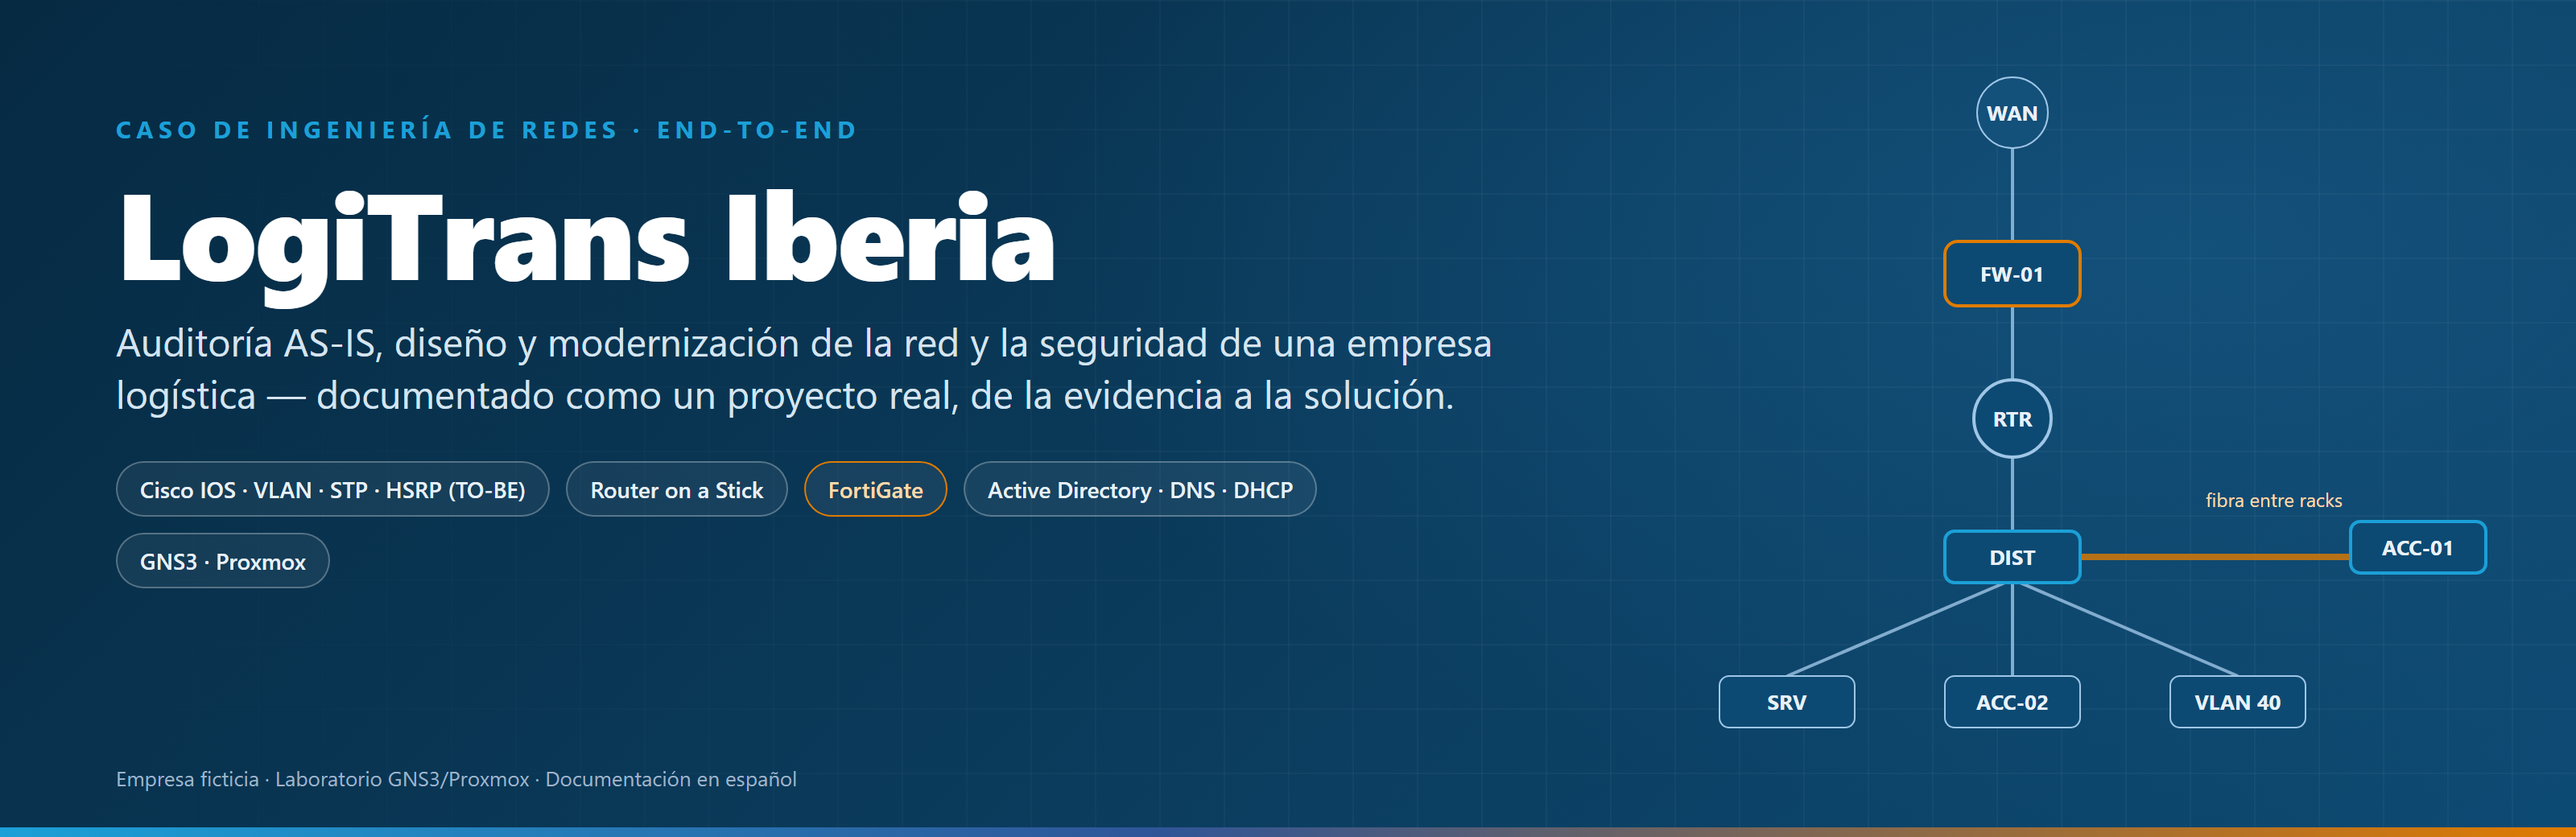
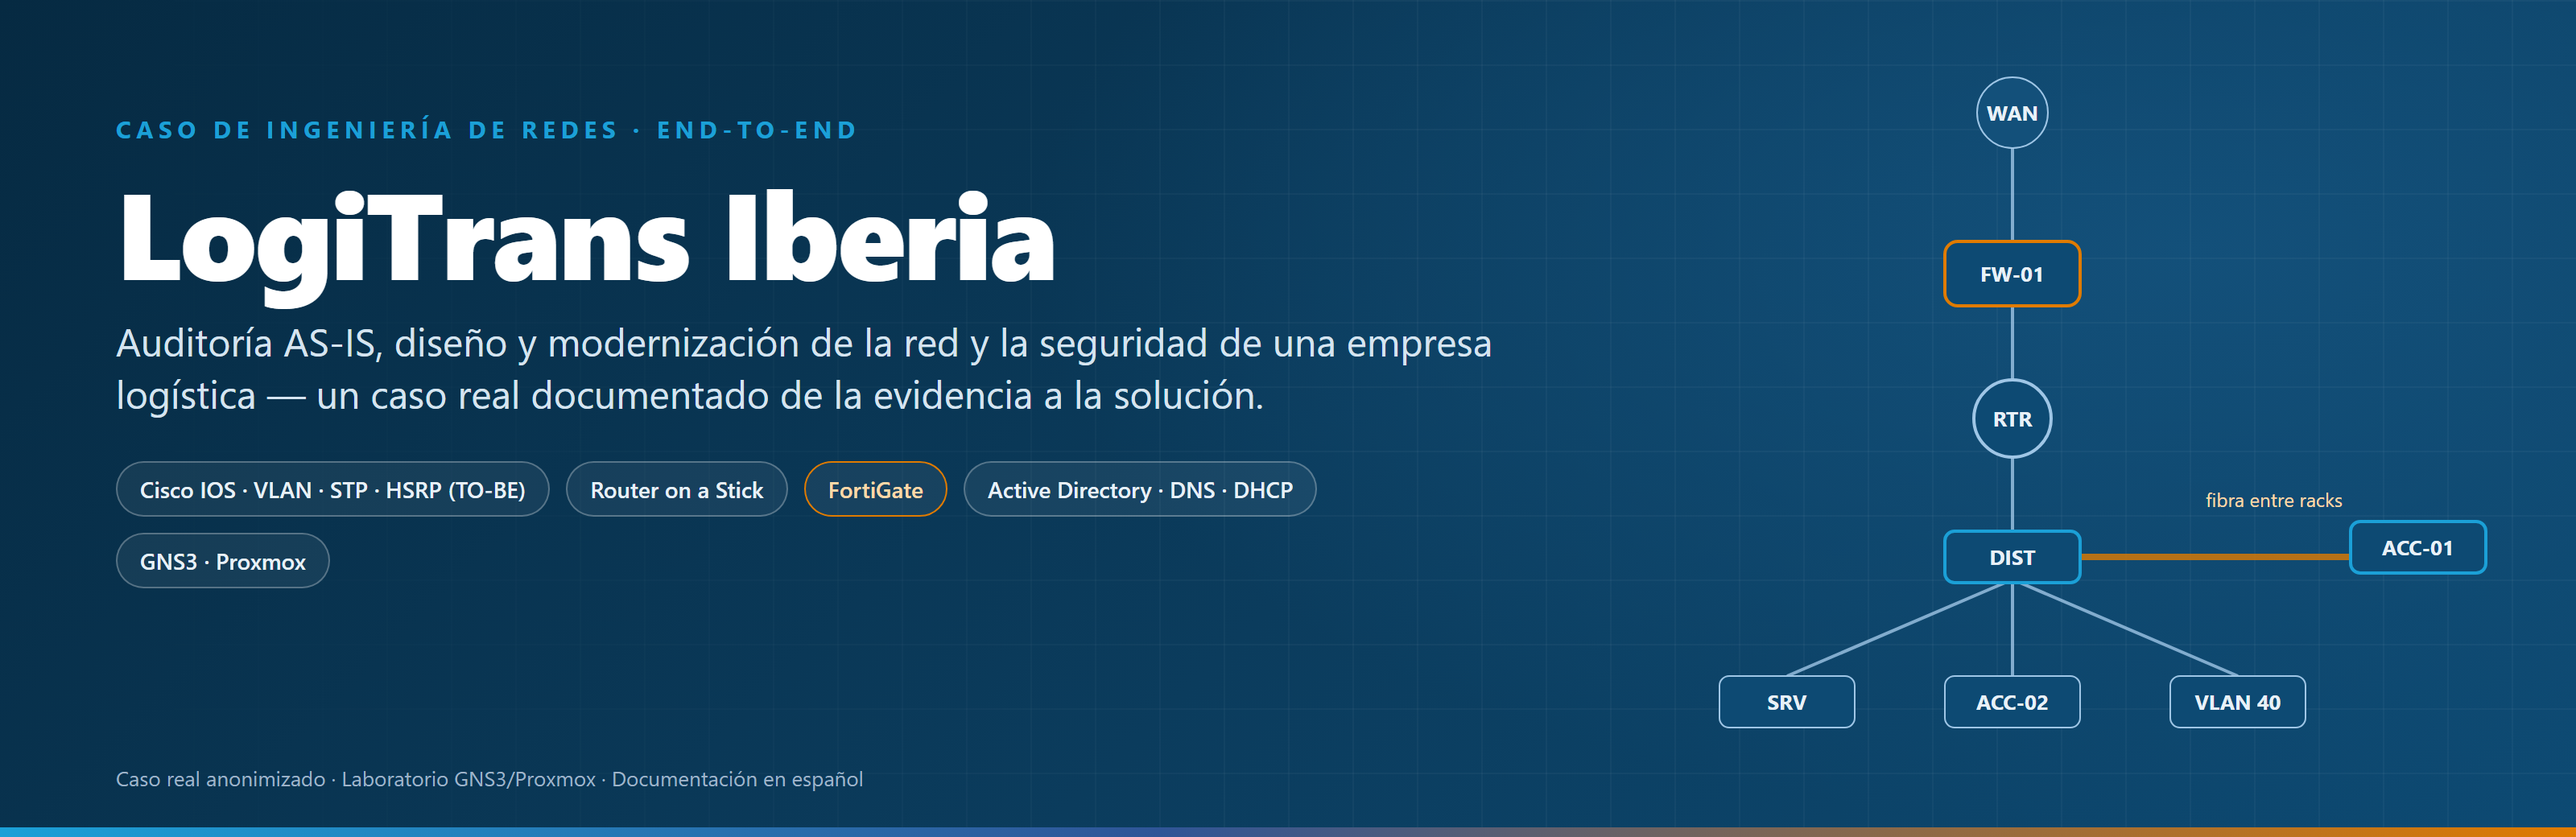
LogiTrans Iberia: se presenta como caso real anonimizado, coherente con la publicación de la Fase 0

Changed region(s): [[0.125, 0.4615, 0.5625, 0.4923], [0.0312, 0.9231, 0.3438, 0.9538]]

diff --git a/logitrans-iberia/3d/index.html b/logitrans-iberia/3d/index.html
@@ -4,11 +4,11 @@
 <meta charset="utf-8">
 <meta name="viewport" content="width=device-width, initial-scale=1">
 <title>LogiTrans Iberia · Concepto 3D del cableado</title>
-<meta name="description" content="Modelo 3D navegable del cableado estructurado de LogiTrans Iberia (empresa ficticia): bandejas, troncal de fibra OM4, 54 tomas dobles y racks OF-01 y AL-01 con su electrónica.">
+<meta name="description" content="Modelo 3D navegable del cableado estructurado de LogiTrans Iberia (caso real anonimizado): bandejas, troncal de fibra OM4, 54 tomas dobles y racks OF-01 y AL-01 con su electrónica.">
 <meta name="author" content="Víctor Espinal">
 <meta property="og:type" content="website">
 <meta property="og:title" content="LogiTrans Iberia · Concepto 3D del cableado estructurado">
-<meta property="og:description" content="Nave logística de 60 × 40 m en 3D: recorre el cableado, abre los racks y consulta cada elemento. Caso de ingeniería de redes ficticio.">
+<meta property="og:description" content="Nave logística de 60 × 40 m en 3D: recorre el cableado, abre los racks y consulta cada elemento. Caso real de ingeniería de redes, anonimizado.">
 <meta property="og:image" content="https://voespinal-code.github.io/network-security-projects/logitrans-iberia/assets/img/3d/portada-3d.png">
 <meta property="og:url" content="https://voespinal-code.github.io/network-security-projects/logitrans-iberia/3d/">
 <meta name="twitter:card" content="summary_large_image">
@@ -133,7 +133,7 @@ body.iso #hint{display:none}body.iso #card{top:12px;bottom:auto;width:290px}
         <div><b>24,2 %</b><span>ocupación máx. bandeja</span></div>
       </div>
     </section>
-    <p class="note"><b>LogiTrans Iberia es una empresa ficticia.</b> Caso de portafolio de <a href="https://github.com/voespinal-code/network-security-projects/tree/main/logitrans-iberia">Víctor Espinal en GitHub</a>. Diseño conceptual, no apto para obra. Alturas, recorridos de cable y posición exacta de tomas son hipótesis. La electrónica montada en los racks es una propuesta a partir de la demo de topología: el plano de Fase 02 solo reserva las U.</p>
+    <p class="note"><b>LogiTrans Iberia es el nombre anonimizado de un cliente real.</b> Caso de portafolio de <a href="https://github.com/voespinal-code/network-security-projects/tree/main/logitrans-iberia">Víctor Espinal en GitHub</a>. Diseño conceptual, no apto para obra. Alturas, recorridos de cable y posición exacta de tomas son hipótesis. La electrónica montada en los racks es una propuesta a partir de la demo de topología: el plano de Fase 02 solo reserva las U.</p>
   </div>
 </aside>
 

diff --git a/logitrans-iberia/README.md b/logitrans-iberia/README.md
@@ -4,7 +4,7 @@
 
 ![Fase 0](https://img.shields.io/badge/Fase_0-definida-1BA0D7) ![Laboratorio](https://img.shields.io/badge/laboratorio-GNS3_·_Proxmox-0B3C5D) ![Idioma](https://img.shields.io/badge/docs-español-555) [![Modelo 3D](https://img.shields.io/badge/modelo_3D-abrir_en_el_navegador-E07B00)](https://voespinal-code.github.io/network-security-projects/logitrans-iberia/3d/)
 
-Este proyecto es un **caso completo de ingeniería de redes** sobre una empresa logística **ficticia**. Recorre todo el ciclo de un proyecto de infraestructura:
+Este proyecto es un **caso completo de ingeniería de redes** basado en un trabajo real para una empresa logística, **anonimizado** por confidencialidad. Recorre todo el ciclo de un proyecto de infraestructura:
 
 1. Entender el negocio.
 2. Auditar la red existente (AS-IS).
@@ -69,9 +69,9 @@ El plano de cableado de la Fase 6 (LGT-F02-CAB-01) llevado a un modelo navegable
 
 ## Transparencia
 
-- **LogiTrans Iberia es una empresa ficticia.** El escenario, los modelos y las cifras son de diseño; las cotas del plano son hipótesis, no mediciones.
+- **LogiTrans Iberia es el nombre anonimizado de un cliente real.** El nombre de la empresa y los datos que podrían identificarla se han sustituido o generalizado; cifras, cotas y planos se presentan como referencia técnica, no como mediciones del sitio.
 - Cada fase se publica cuando está lista, y los resultados de laboratorio solo cuando existen con su evidencia.
-- Nada de este repositorio presenta experiencia en producción.
+- Se separa siempre lo realizado en el entorno del cliente de las reproducciones y pruebas emuladas en GNS3/Proxmox: cada resultado indica su entorno, su evidencia y sus limitaciones.
 
 ---
 

diff --git a/README.md b/README.md
@@ -4,10 +4,10 @@ Documentación de proyectos de ingeniería de redes y ciberseguridad reproducido
 
 Cada proyecto se publica por fases: levantamiento AS-IS, diseño, implementación, pruebas y cierre.
 
-> Los escenarios son ficticios y tienen fines formativos y de portafolio.
+> Los casos se basan en trabajos reales para clientes. Por confidencialidad, los nombres y los datos que podrían identificarlos se han sustituido o generalizado.
 
 ## Proyectos
 
 | Proyecto | Descripción | Fases publicadas |
 |---|---|---|
-| [LogiTrans Iberia](logitrans-iberia/) | Modernización de la red y la seguridad de una empresa logística ficticia (nave en Barcelona, 60 empleados): Cisco, FortiGate, Active Directory, GNS3 y Proxmox. | Fase 0 · [modelo 3D del cableado](https://voespinal-code.github.io/network-security-projects/logitrans-iberia/3d/) (avance) |
+| [LogiTrans Iberia](logitrans-iberia/) | Modernización de la red y la seguridad de una empresa logística, caso real anonimizado (nave en Barcelona, 60 empleados): Cisco, FortiGate, Active Directory, GNS3 y Proxmox. | Fase 0 · [modelo 3D del cableado](https://voespinal-code.github.io/network-security-projects/logitrans-iberia/3d/) (avance) |

diff --git a/logitrans-iberia/docs/FASE_0_EMPRESA.md b/logitrans-iberia/docs/FASE_0_EMPRESA.md
@@ -6,7 +6,7 @@
 
 ## 1. La empresa
 
-**LogiTrans Iberia, S.L.** es una empresa *ficticia* de almacenamiento y distribución de mercancías para otras empresas (B2B). Su actividad consiste en recibir productos, almacenarlos, preparar pedidos y coordinar su expedición.
+**LogiTrans Iberia, S.L.** (nombre anonimizado de un cliente real) es una empresa de almacenamiento y distribución de mercancías para otras empresas (B2B). Su actividad consiste en recibir productos, almacenarlos, preparar pedidos y coordinar su expedición.
 
 | Dato | Valor |
 |---|---|
